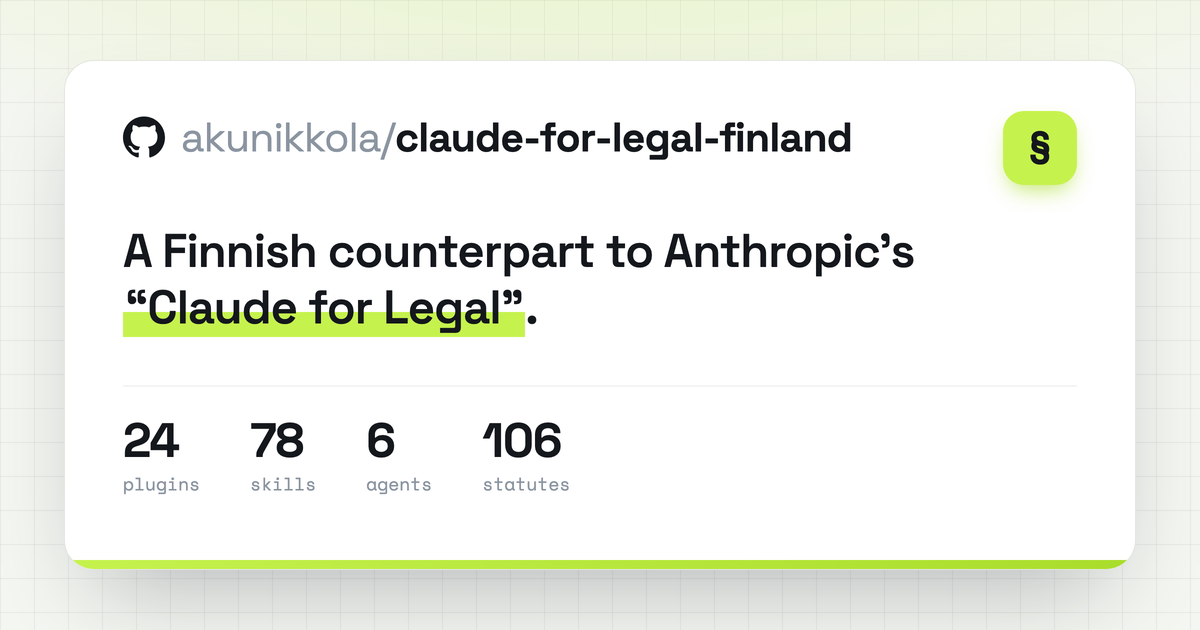
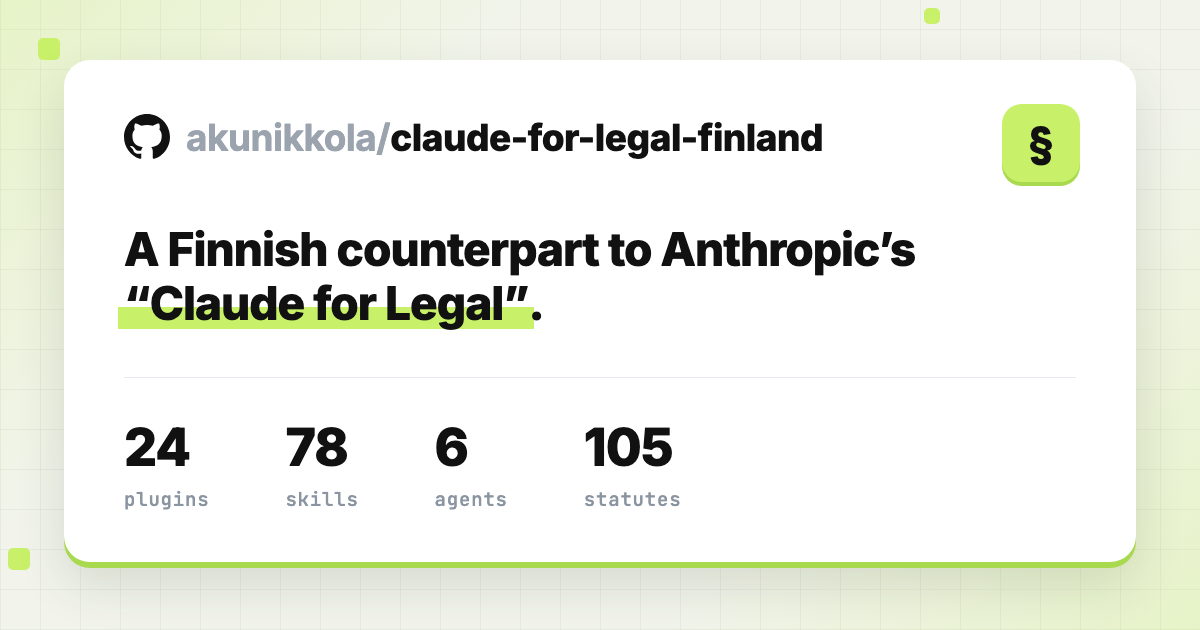
Päivitä katselmussivu ja OG-kuvat: v1.2.0, 105 säädöstä, Codex ja auditointi
- versiomerkki v1.1.0 → v1.2.0 ja release-väli v0.1.0–v1.2.0 (FI + EN)
- säädösvahdin määrä 106 → 105 (vanhemmuuslaki 775/2022 korvasi
  isyys- ja äitiyslain rekisterissä)
- uudet ylläpitorivit: viittausauditointi 7/2026 ja Codex-yhteensopivuus
- OG-jakokuvat regeneroitu (105 säädöstä), FI + EN

diff --git a/docs/en/index.html b/docs/en/index.html
@@ -17,7 +17,7 @@
 <meta property="og:image:type" content="image/png">
 <meta property="og:image:width" content="1200">
 <meta property="og:image:height" content="630">
-<meta property="og:image:alt" content="Claude for Legal Finland — 24 plugins, 78 skills, 6 agents, 106 verified statutes">
+<meta property="og:image:alt" content="Claude for Legal Finland — 24 plugins, 78 skills, 6 agents, 105 verified statutes">
 <meta name="twitter:card" content="summary_large_image">
 <meta name="twitter:title" content="Claude for Legal Finland — a Finnish counterpart to Claude for Legal">
 <meta name="twitter:description" content="Open-source skills, agents and guardrails for legal professionals. 24 plugins, 78 skills, every statute verified against Finlex.">
@@ -266,7 +266,7 @@
         source-checking, three-tier certainty labelling and a human-in-the-loop review gate.</p>
 
       <div class="metarow">
-        <span class="chip">v1.1.0</span>
+        <span class="chip">v1.2.0</span>
         <span class="chip ghost">MIT</span>
         <span class="chip ghost">Finlex · oik.ai · laki.ai · case law</span>
       </div>
@@ -286,7 +286,7 @@
         </div>
         <div class="stat">
           <div class="top"><svg class="ic" viewBox="0 0 24 24"><path d="M12 3l8 3.2v4.6c0 4.5-3.2 7.6-8 9.2-4.8-1.6-8-4.7-8-9.2V6.2z"/><path d="M8.7 12l2.2 2.2 4.4-4.4"/></svg></div>
-          <b>106</b><span>statutes verified</span>
+          <b>105</b><span>statutes verified</span>
         </div>
       </div>
 
@@ -484,8 +484,10 @@
         <h3><svg class="ic ic-sm" viewBox="0 0 24 24"><path d="M4 19.5V5a2 2 0 012-2h13v16H6a2 2 0 00-2 2z"/><path d="M8 7h8M8 11h6"/></svg> Sources &amp; upkeep</h3>
         <ul>
           <li><svg class="ic ic-sm" viewBox="0 0 24 24"><path d="M5 12h14M13 6l6 6-6 6"/></svg><a href="https://github.com/akunikkola/claude-for-legal-finland">github.com/akunikkola/claude-for-legal-finland</a></li>
-          <li><svg class="ic ic-sm" viewBox="0 0 24 24"><path d="M5 12h14M13 6l6 6-6 6"/></svg>Releases: per-plugin ZIPs (v0.1.0–v1.1.0)</li>
-          <li><svg class="ic ic-sm" viewBox="0 0 24 24"><path d="M5 12h14M13 6l6 6-6 6"/></svg>Statute watch: monthly, 106/106 match Finlex</li>
+          <li><svg class="ic ic-sm" viewBox="0 0 24 24"><path d="M5 12h14M13 6l6 6-6 6"/></svg>Releases: per-plugin ZIPs (v0.1.0–v1.2.0)</li>
+          <li><svg class="ic ic-sm" viewBox="0 0 24 24"><path d="M5 12h14M13 6l6 6-6 6"/></svg>Statute watch: monthly, 105/105 match Finlex</li>
+          <li><svg class="ic ic-sm" viewBox="0 0 24 24"><path d="M5 12h14M13 6l6 6-6 6"/></svg>Citation audit: all 137 statute numbers and case ids verified against sources 7/2026</li>
+          <li><svg class="ic ic-sm" viewBox="0 0 24 24"><path d="M5 12h14M13 6l6 6-6 6"/></svg>Codex compatibility: the same collection works on OpenAI Codex (<code>CODEX.md</code>)</li>
           <li><svg class="ic ic-sm" viewBox="0 0 24 24"><path d="M5 12h14M13 6l6 6-6 6"/></svg>CI validator on every change</li>
         </ul>
       </div>

diff --git a/docs/index.html b/docs/index.html
@@ -17,7 +17,7 @@
 <meta property="og:image:type" content="image/png">
 <meta property="og:image:width" content="1200">
 <meta property="og:image:height" content="630">
-<meta property="og:image:alt" content="Claude for Legal Finland — 24 plugaria, 78 skilliä, 6 agenttia, 106 varmistettua säädöstä">
+<meta property="og:image:alt" content="Claude for Legal Finland — 24 plugaria, 78 skilliä, 6 agenttia, 105 varmistettua säädöstä">
 <meta name="twitter:card" content="summary_large_image">
 <meta name="twitter:title" content="Claude for Legal Finland — suomalainen vastine Claude for Legalille">
 <meta name="twitter:description" content="Avoimen lähdekoodin skillit, agentit ja suojaukset oikeudellisen alan ammattilaiselle. 24 plugaria, 78 skilliä, kaikki säädökset varmistettu Finlexistä.">
@@ -277,7 +277,7 @@
         varmuusmerkinnällä ja ihmisen tarkistusportilla (ns. ”human-in-the-loop”).</p>
 
       <div class="metarow">
-        <span class="chip">v1.1.0</span>
+        <span class="chip">v1.2.0</span>
         <span class="chip ghost">MIT</span>
         <span class="chip ghost">Finlex · oik.ai · laki.ai · KKO/KHO</span>
       </div>
@@ -297,7 +297,7 @@
         </div>
         <div class="stat">
           <div class="top"><svg class="ic" viewBox="0 0 24 24"><path d="M12 3l8 3.2v4.6c0 4.5-3.2 7.6-8 9.2-4.8-1.6-8-4.7-8-9.2V6.2z"/><path d="M8.7 12l2.2 2.2 4.4-4.4"/></svg></div>
-          <b>106</b><span>säädöstä varmistettu</span>
+          <b>105</b><span>säädöstä varmistettu</span>
         </div>
       </div>
 
@@ -495,8 +495,10 @@
         <h3><svg class="ic ic-sm" viewBox="0 0 24 24"><path d="M4 19.5V5a2 2 0 012-2h13v16H6a2 2 0 00-2 2z"/><path d="M8 7h8M8 11h6"/></svg> Lähteet ja ylläpito</h3>
         <ul>
           <li><svg class="ic ic-sm" viewBox="0 0 24 24"><path d="M5 12h14M13 6l6 6-6 6"/></svg><a href="https://github.com/akunikkola/claude-for-legal-finland">github.com/akunikkola/claude-for-legal-finland</a></li>
-          <li><svg class="ic ic-sm" viewBox="0 0 24 24"><path d="M5 12h14M13 6l6 6-6 6"/></svg>Releaset: plugarikohtaiset ZIPit (v0.1.0–v1.1.0)</li>
-          <li><svg class="ic ic-sm" viewBox="0 0 24 24"><path d="M5 12h14M13 6l6 6-6 6"/></svg>Säädösvahti: kuukausittain 106/106 täsmää Finlexiin</li>
+          <li><svg class="ic ic-sm" viewBox="0 0 24 24"><path d="M5 12h14M13 6l6 6-6 6"/></svg>Releaset: plugarikohtaiset ZIPit (v0.1.0–v1.2.0)</li>
+          <li><svg class="ic ic-sm" viewBox="0 0 24 24"><path d="M5 12h14M13 6l6 6-6 6"/></svg>Säädösvahti: kuukausittain 105/105 täsmää Finlexiin</li>
+          <li><svg class="ic ic-sm" viewBox="0 0 24 24"><path d="M5 12h14M13 6l6 6-6 6"/></svg>Viittausauditointi: 137 säädösnumeroa ja ratkaisutunnukset tarkistettu lähteestä 7/2026</li>
+          <li><svg class="ic ic-sm" viewBox="0 0 24 24"><path d="M5 12h14M13 6l6 6-6 6"/></svg>Codex-yhteensopivuus: sama kokoelma myös OpenAI Codexissa (<code>CODEX.md</code>)</li>
           <li><svg class="ic ic-sm" viewBox="0 0 24 24"><path d="M5 12h14M13 6l6 6-6 6"/></svg>CI-validaattori jokaisessa muutoksessa</li>
         </ul>
       </div>